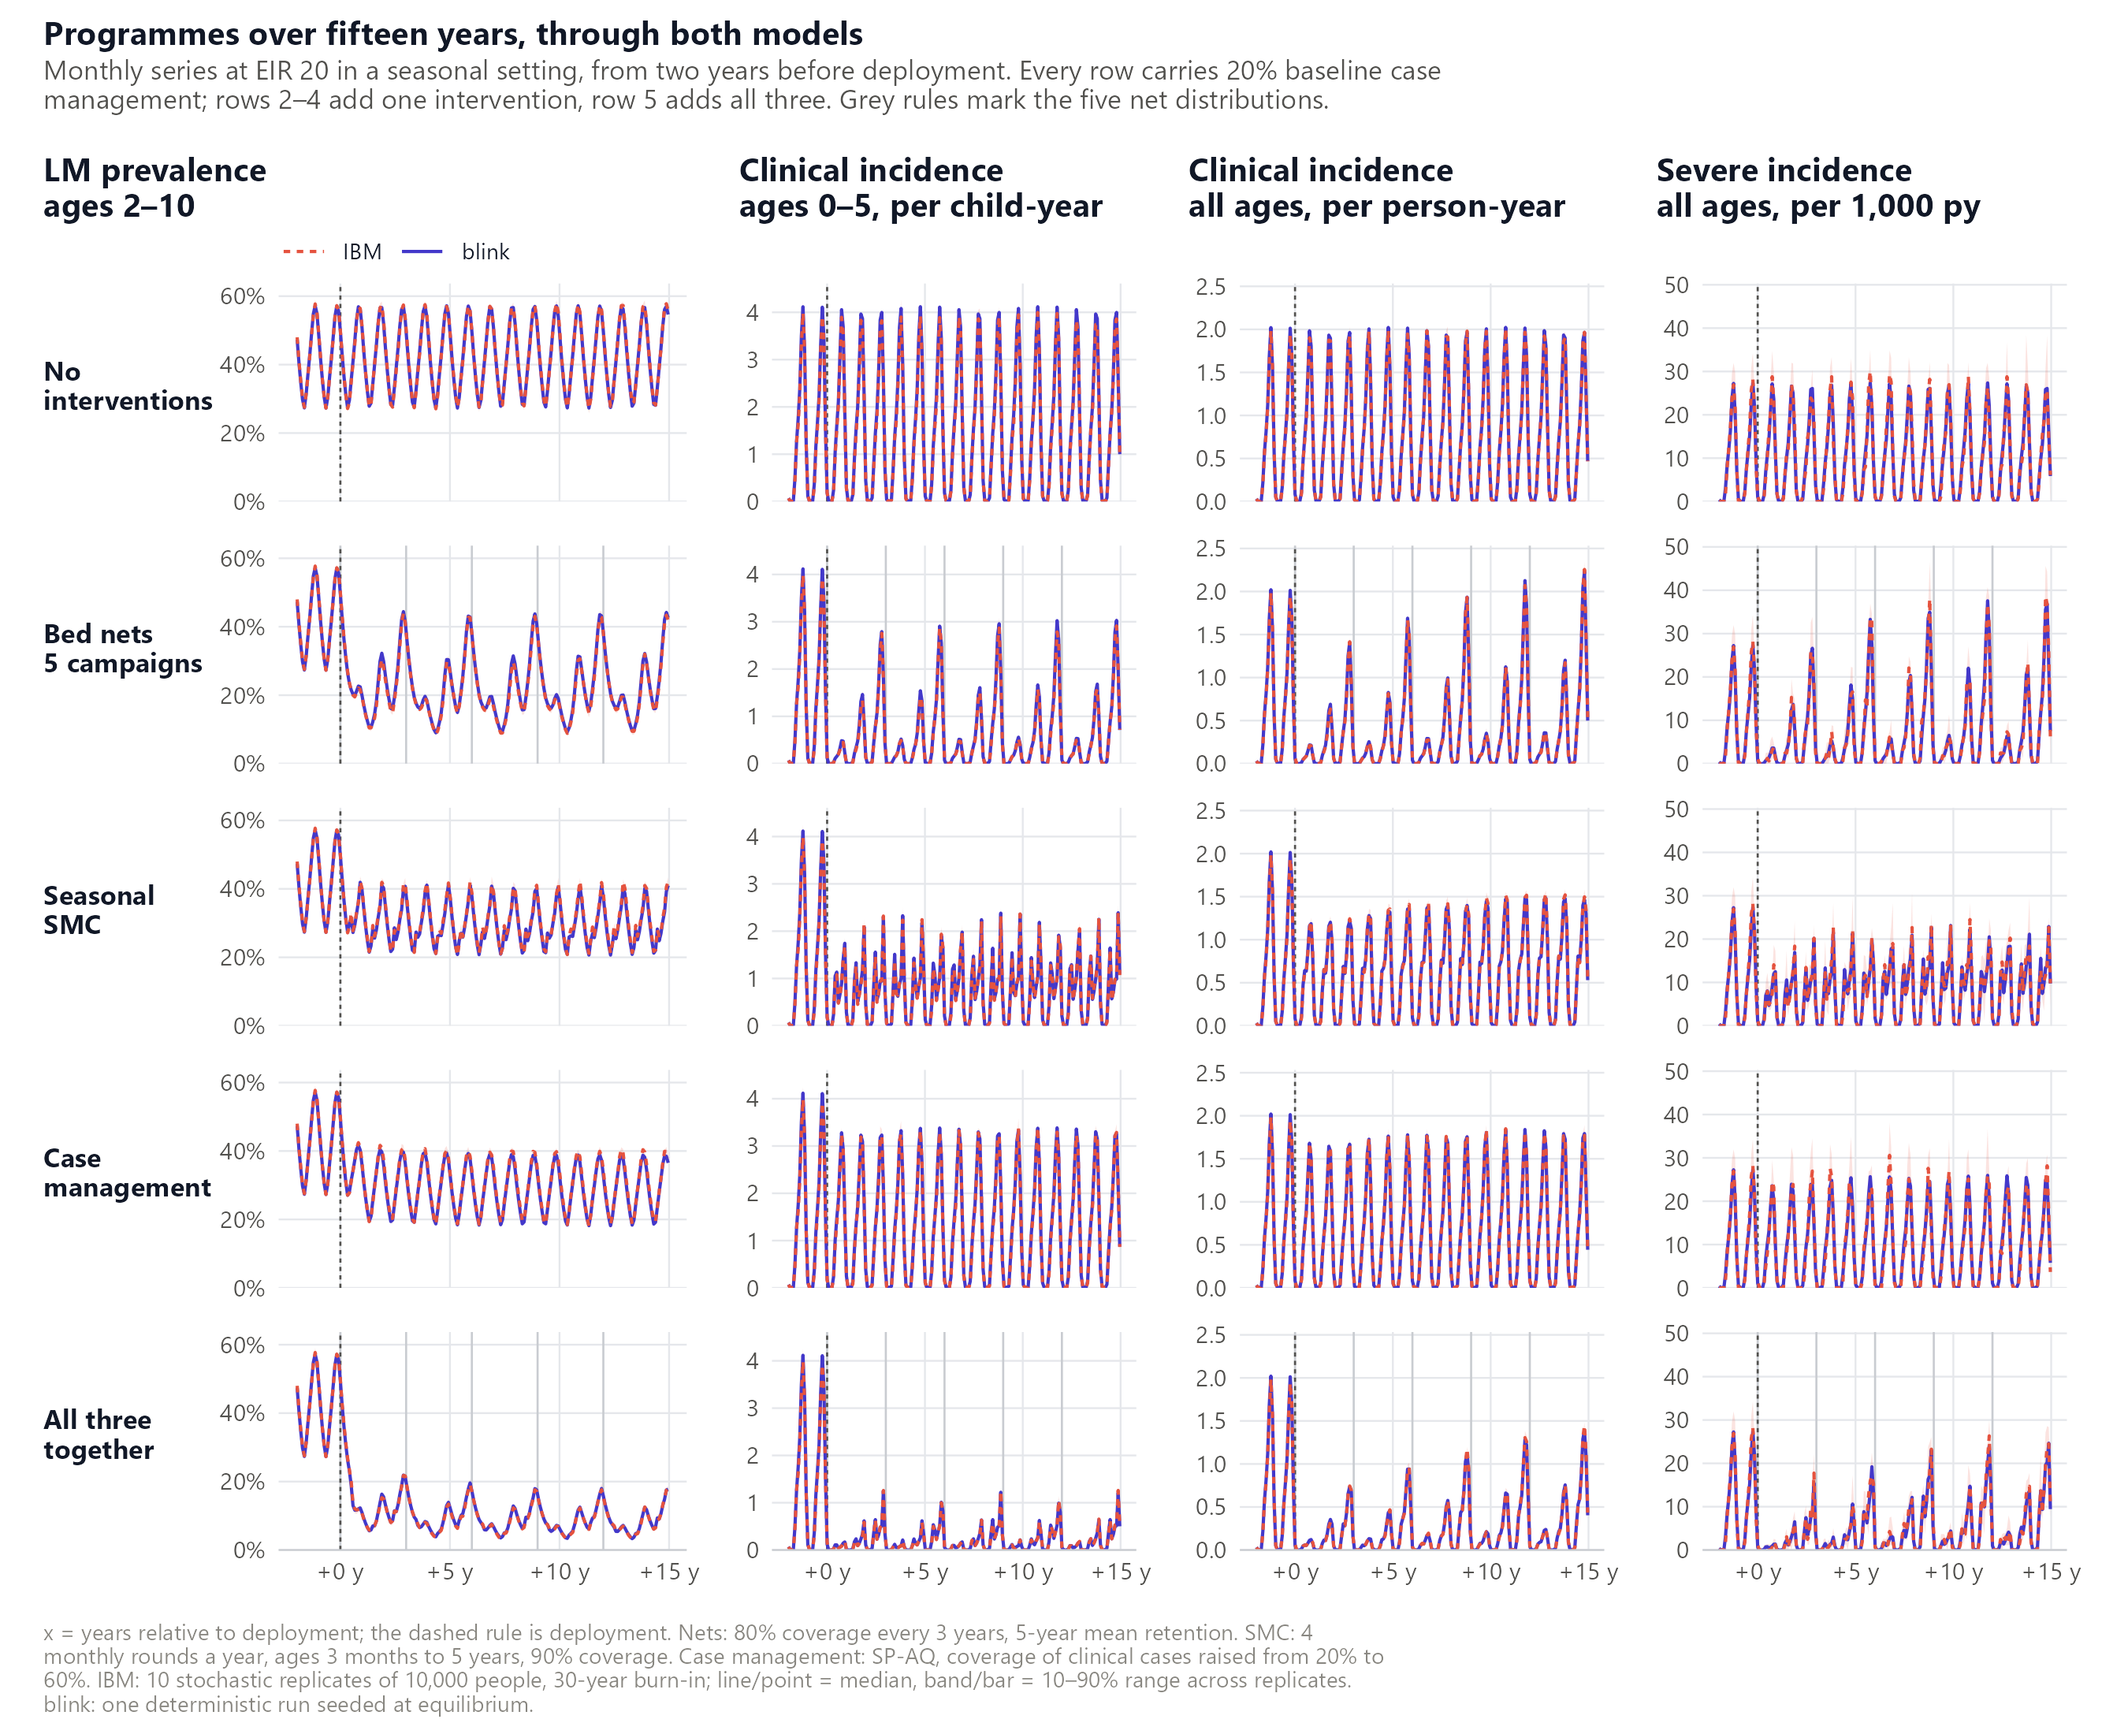
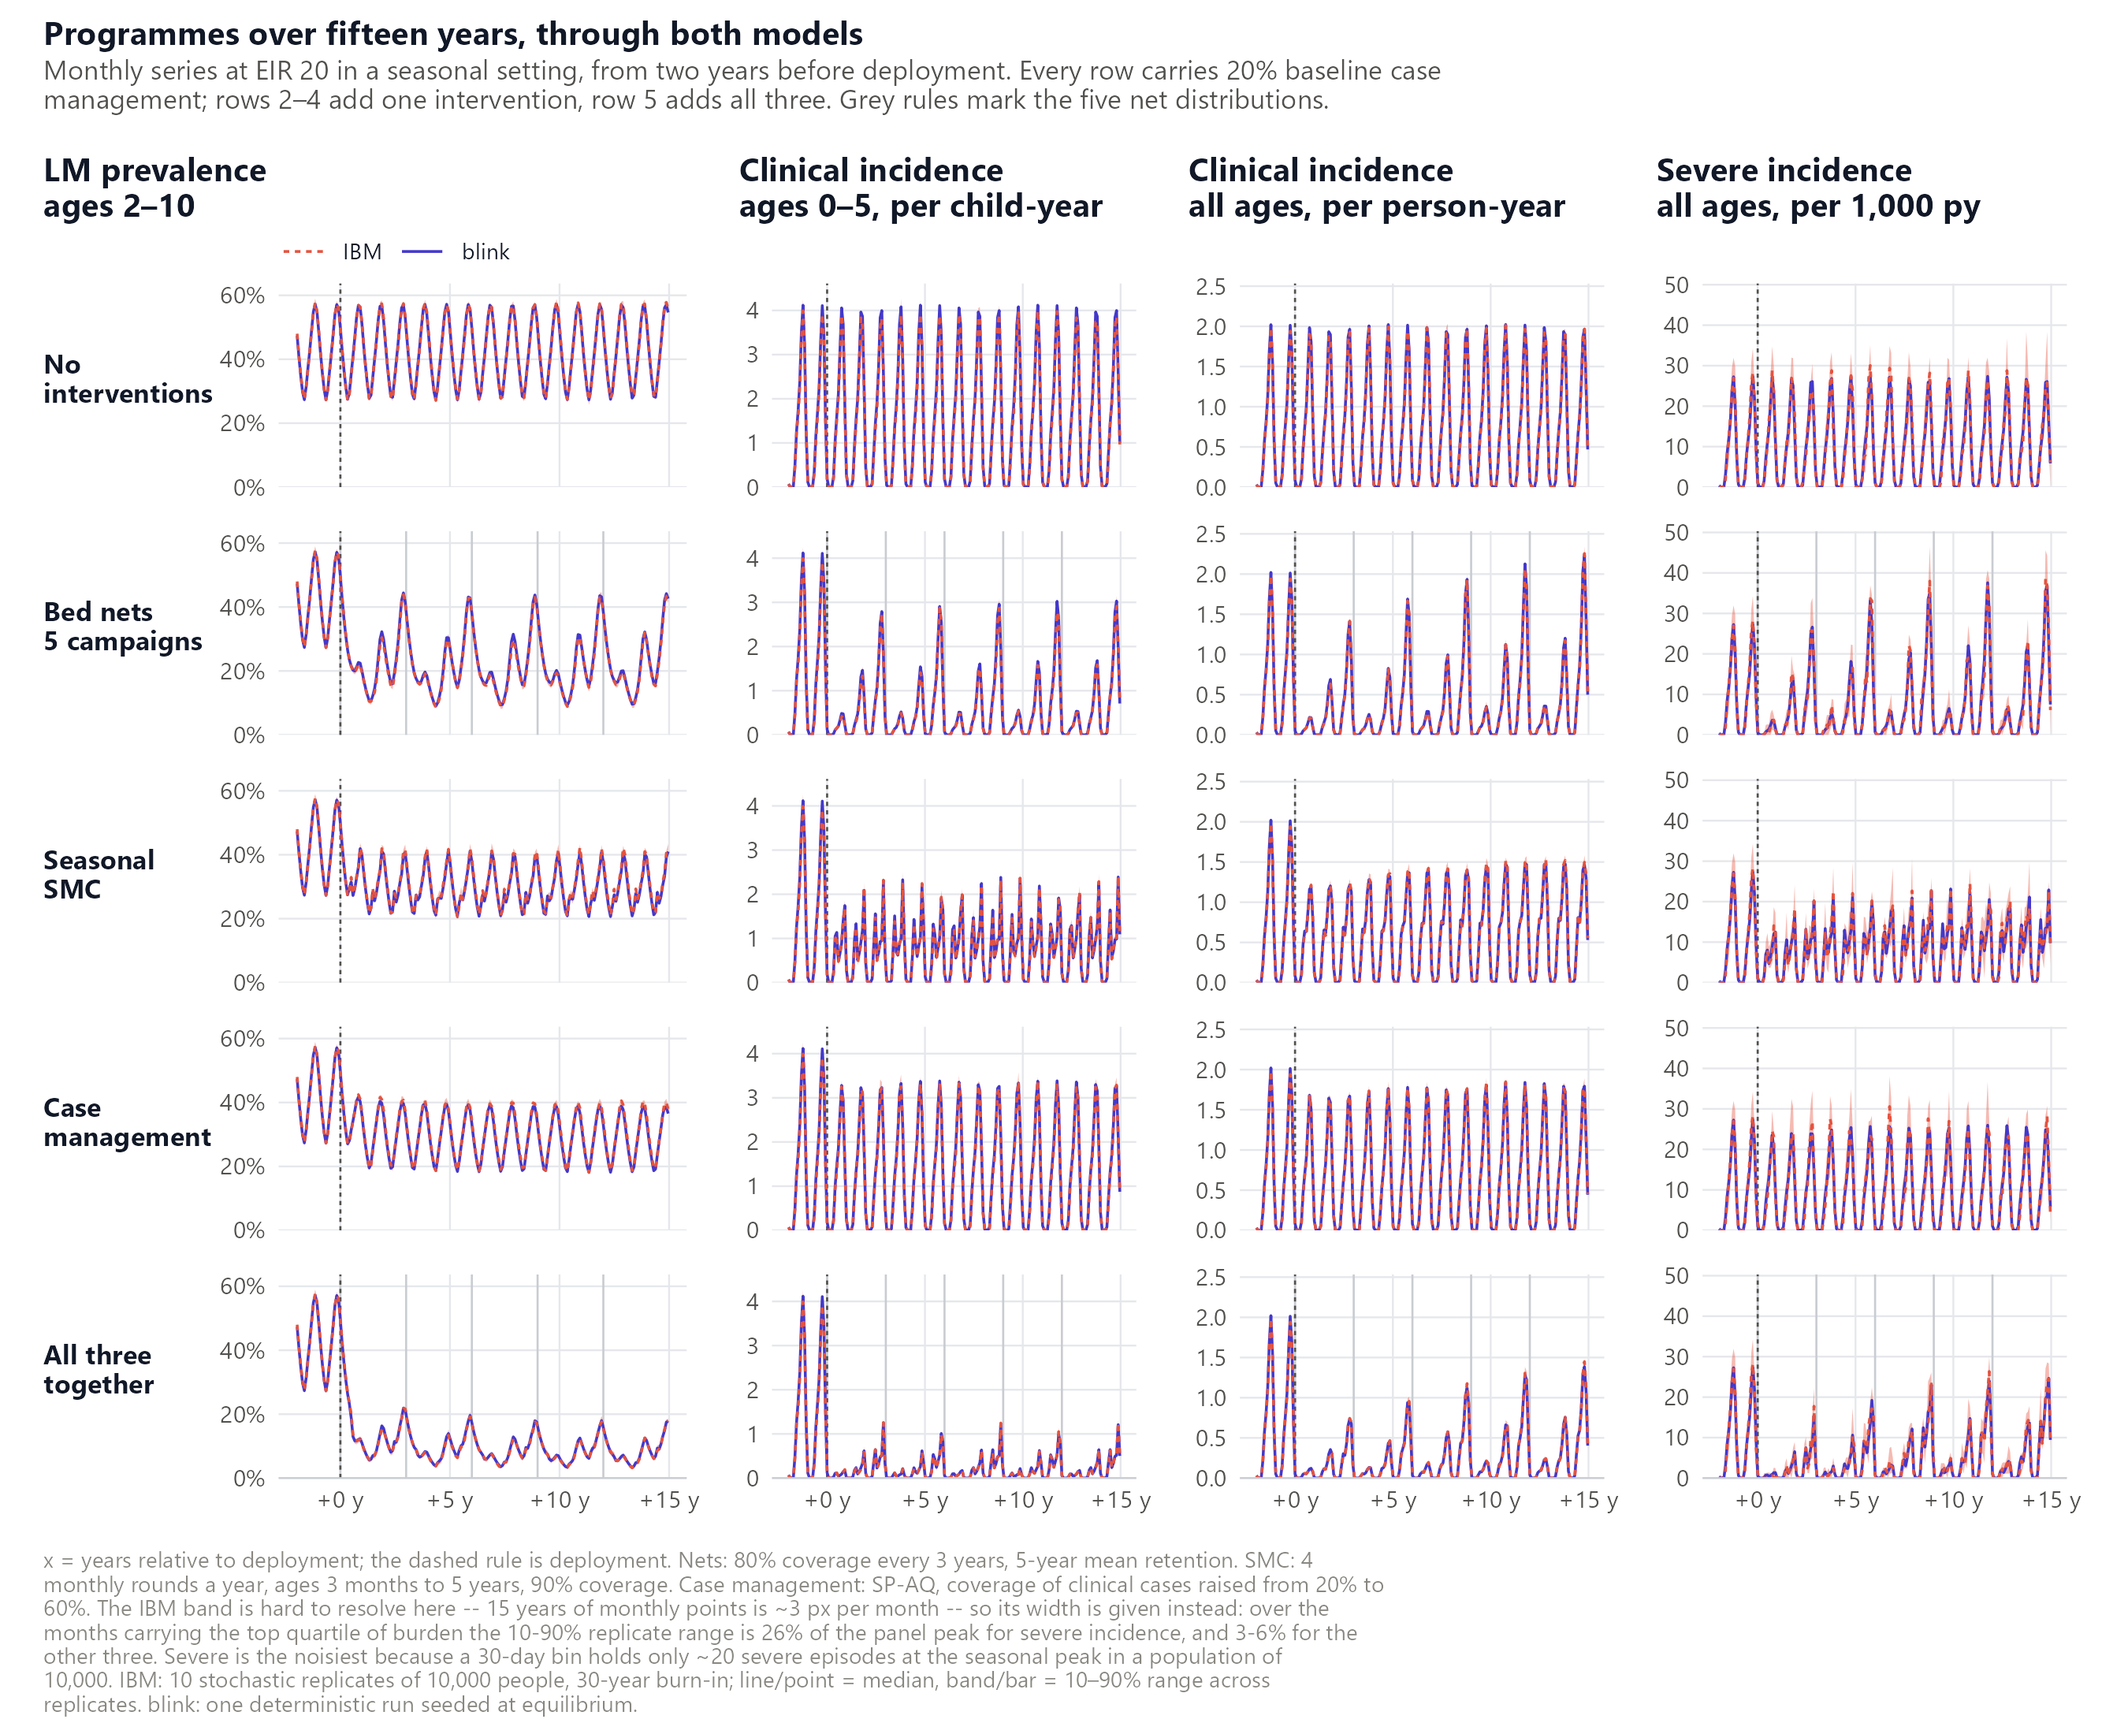
Make the IBM envelope visible on the programme figure
At ENV_ALPHA = 0.16 the band was invisible on this figure: fifteen years
of monthly points is about three pixels per month, so the envelope only
opens at the spike tips. Raised to 0.40 with the lines thinned to 0.6 to
match, local to this figure so the four already-reviewed figures are not
changed unseen.

The band has real width to disclose, but only on one of the four
outcomes. Over the months carrying the top quartile of burden the IBM
10-90% replicate range is 26% of the panel peak for all-age severe
against 3-6% for prevalence and the two clinical measures, because
severe is the rarest outcome: a 30-day bin holds only ~20 severe
episodes at the seasonal peak in a population of 10,000. The figure now
shows that difference honestly - coral haloes on the severe spikes,
almost nothing on the other three - and the caption and article give the
widths, since three pixels a month can only hint at them.

Correcting a statistic quoted earlier in the session: the "10-90 band is
92% of the median" figure for severe was dominated by dry-season months
where the median is near zero. That is the same trough artefact I had
just rejected for per-month relative error, applied to my own summary.
Split by whether a month carries burden, it is 51% of the median over
the top quartile and 26% of the panel peak.

The article also now records that the median of ten replicates is doing
very little smoothing on three of the four outcomes: a single IBM
[…]

diff --git a/NEWS.md b/NEWS.md
@@ -248,6 +248,18 @@
   report a per-month relative error, because the seasonal dry-season trough goes
   to within rounding of zero and |blink − IBM| / IBM then reaches billions of
   percent on months carrying no burden.
+
+  The IBM envelope on this figure is drawn heavier than on the rest of the set
+  (0.40 against `ENV_ALPHA`'s 0.16, and the lines are thinned to match), because
+  fifteen years of monthly points is about three pixels per month and at 0.16 the
+  band was invisible even where it is wide. It has real width to disclose: over
+  the months carrying the top quartile of burden the 10–90% replicate range is
+  26% of the panel peak for all-age severe incidence, against 3–6% for prevalence
+  and the two clinical measures — severe being the rarest outcome, a 30-day bin
+  holds only ~20 severe episodes at the seasonal peak in a population of 10,000.
+  The caption and the article now give those widths, since the figure can only
+  hint at them. Raised locally rather than in `theme.R`, so the four
+  already-reviewed figures are not changed unseen.
 * The equilibrium-vs-EIR figure gains the same two panels, also laid out 2×2:
   all-age clinical incidence and all-age severe incidence against EIR, beside the
   existing PfPR(2–10) and under-5 clinical panels. The all-age views carry the
